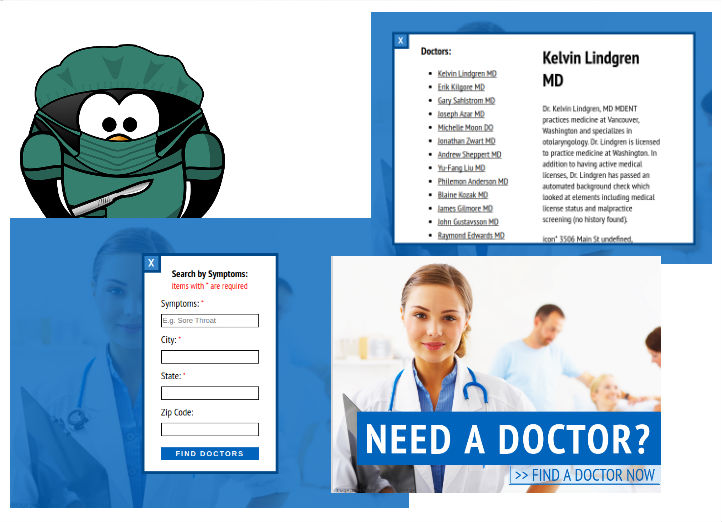
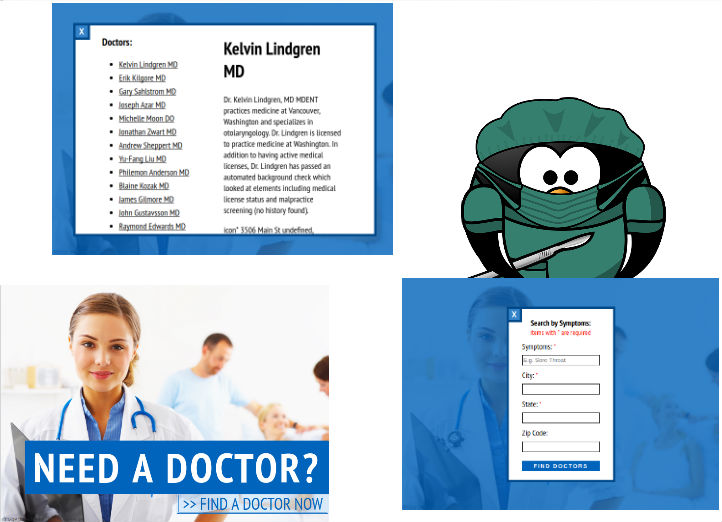
move title above image

diff --git a/README.md b/README.md
@@ -1,8 +1,8 @@
 <h1 align="center">
   <br>
-  <img src="https://github.com/DLopez6877/doctor-api/blob/master/images/demo.jpg?raw=true alt="Markdownify" width="600">
-  <br>
   Find a Doctor
+  <br>
+  <img src="https://github.com/DLopez6877/doctor-api/blob/master/images/demo.jpg?raw=true alt="Markdownify" width="700">
   <br>
 </h1>
 
